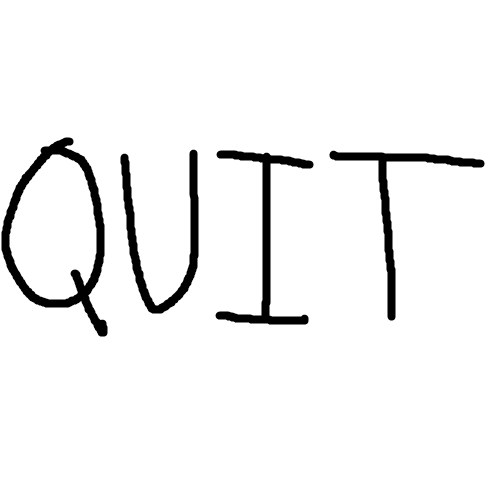
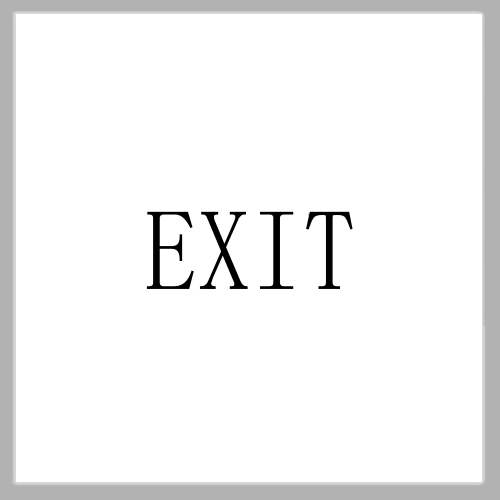
update states
Updated Menu, Loading and EndGame states so that they have the appropriate buttons and textures.

Changed region(s): [[0.0, 0.0, 1.0, 1.0], [0.24, 0.3, 0.72, 0.66]]

diff --git a/Client/src/States/Loadscreen.cpp b/Client/src/States/Loadscreen.cpp
@@ -7,14 +7,20 @@ Loadscreen::Loadscreen(Aen::Window& window)
 
 Loadscreen::~Loadscreen()
 {
+	Aen::EntityHandler::RemoveEntity(*m_loading);
 }
 
 void Loadscreen::Update(const float& deltaTime)
 {
-	if (Aen::Input::KeyDown(Aen::Key::ENTER))
+	m_loading->GetComponent<Aen::UIComponent>().Update(m_Window);
+
+	if (Aen::Input::KeyDown(Aen::Key::LMOUSE) && m_loading[0].GetComponent<Aen::UIComponent>().getBool())
 	{
 		State::SetState(States::Gameplay);
 	}
+
+	if (Aen::Input::KeyDown(Aen::Key::ESCAPE))
+		m_Window.Exit();
 
 	//cout << "Loadstate\n";
 }
@@ -23,12 +29,32 @@ void Loadscreen::Initialize()
 {
 	cout << "Loadstate\n";
 	m_Window.SetWindowSize(static_cast<UINT>(GetSystemMetrics(SM_CXSCREEN) * 0.4f), static_cast<UINT>(GetSystemMetrics(SM_CYSCREEN) * 0.4f));
-	/*Aen::WindowDesc wDesc;
+	Aen::WindowDesc wDesc;
 	wDesc.width = GetSystemMetrics(SM_CXSCREEN) + 4u;
 	wDesc.height = GetSystemMetrics(SM_CYSCREEN) + 4u;
 	wDesc.EXStyle = AEN_WS_EX_APPWINDOW;
 	wDesc.style = AEN_WS_POPUPWINDOW | AEN_WS_VISIBLE;
-	m_Window.LoadSettings(wDesc);*/
+	m_Window.LoadSettings(wDesc);
+
+	// ----------------------------- UI -------------------------------- //
+	// keyboard
+	m_loading = &Aen::EntityHandler::CreateEntity();
+	m_loading->AddComponent<Aen::UIComponent>();
+	m_loading->GetComponent<Aen::UIComponent>().AddButton(L"../Resource/KeyboardLayout.png", 0);
+	m_loading->GetComponent<Aen::UIComponent>().SetButtonPos(975.f, 520.f, 0);
+	m_loading->GetComponent<Aen::UIComponent>().SetButtonSize(1900.f, 1000.f, 0);
+	m_loading->GetComponent<Aen::UIComponent>().SaveButtonData();
+
+	// continue
+	m_loading->GetComponent<Aen::UIComponent>().AddButton(L"../Resource/Continue.png", 1);
+	m_loading->GetComponent<Aen::UIComponent>().SetButtonPos(950.f, 950.f, 1);
+	m_loading->GetComponent<Aen::UIComponent>().SetButtonSize(300.f, 150.f, 1);
+	m_loading->GetComponent<Aen::UIComponent>().SaveButtonData();
+
+	//Text
+	m_loading->GetComponent<Aen::UIComponent>().AddText();
+	m_loading->GetComponent<Aen::UIComponent>().SetTextPos(-100.f, -100.f);
+	m_loading->GetComponent<Aen::UIComponent>().SetTextSize(300.f, 300);
 
 	if (!State::GetLoaded())
 		State::SetLoad(true);

diff --git a/Client/src/States/GameEnd.cpp b/Client/src/States/GameEnd.cpp
@@ -16,10 +16,9 @@ void GameEnd::Update(const float& deltaTime)
 		State::SetState(States::Main_Menu);
 	}
 
-	/*if (m_toggleFullScreen)
-		Aen::Input::SetMousePos((Aen::Vec2i)Aen::Vec2f(GetSystemMetrics(SM_CXSCREEN) * 0.5f, GetSystemMetrics(SM_CYSCREEN) * 0.5f));
-	else
-		Aen::Input::SetMousePos(m_Window.GetWindowPos() + (Aen::Vec2i)((Aen::Vec2f)m_Window.GetSize() * 0.5f));*/
+	if (Aen::Input::KeyDown(Aen::Key::ESCAPE))
+		m_Window.Exit();
+
 
 	if (Aen::Input::KeyDown(Aen::Key::F1)) {
 		m_toggleFullScreen = !m_toggleFullScreen;
@@ -49,16 +48,23 @@ void GameEnd::Initialize()
 	m_UI->AddComponent<Aen::UIComponent>();
 	m_UI->GetComponent<Aen::UIComponent>().AddButton(L"../Resource/Menu.png", 0);
 	m_UI->GetComponent<Aen::UIComponent>().SetButtonPos(950.f, 800.f, 0);
-	m_UI->GetComponent<Aen::UIComponent>().SetButtonSize(300.f, 300.f, 0);
+	m_UI->GetComponent<Aen::UIComponent>().SetButtonSize(300.f, 200.f, 0);
 	m_UI->GetComponent<Aen::UIComponent>().SaveButtonData();
 
 	//Text
 	m_UI->GetComponent<Aen::UIComponent>().AddText();
 	m_UI->GetComponent<Aen::UIComponent>().SetTextPos(950.f, 200.f);
-	m_UI->GetComponent<Aen::UIComponent>().SetTextSize(300.f, 300);
+	m_UI->GetComponent<Aen::UIComponent>().SetTextSize(300.f, 300.f);
 
 
 	m_Window.SetWindowSize(static_cast<UINT>(GetSystemMetrics(SM_CXSCREEN) * 0.4f), static_cast<UINT>(GetSystemMetrics(SM_CYSCREEN) * 0.4f));
+	Aen::WindowDesc wDesc;
+	wDesc.width = GetSystemMetrics(SM_CXSCREEN) + 4u;
+	wDesc.height = GetSystemMetrics(SM_CYSCREEN) + 4u;
+	wDesc.EXStyle = AEN_WS_EX_APPWINDOW;
+	wDesc.style = AEN_WS_POPUPWINDOW | AEN_WS_VISIBLE;
+	m_Window.LoadSettings(wDesc);
+
 	cout << "Game End\n";
 	cout << "Press Enter to return to Main Menu\n";
 

diff --git a/Client/src/States/Menu.cpp b/Client/src/States/Menu.cpp
@@ -15,10 +15,11 @@ void MainMenu::Update(const float& deltaTime)
 {
 	testUI->GetComponent<Aen::UIComponent>().Update(m_Window);
 
-	if (Aen::Input::KeyDown(Aen::Key::LMOUSE) && testUI->GetComponent<Aen::UIComponent>().getBool())
-	{
+	if (Aen::Input::KeyDown(Aen::Key::LMOUSE) && testUI[0].GetComponent<Aen::UIComponent>().getBool())
 		State::SetState(States::Loadscreen);
-	}
+
+	if (Aen::Input::KeyDown(Aen::Key::ESCAPE))
+		m_Window.Exit();
 }
 
 void MainMenu::Initialize()
@@ -37,11 +38,17 @@ void MainMenu::Initialize()
 	// ----------------------------- UI -------------------------------- //
 	testUI = &Aen::EntityHandler::CreateEntity();
 	testUI->AddComponent<Aen::UIComponent>();
-	testUI->GetComponent<Aen::UIComponent>().AddButton(L"../Resource/Play.png", 0);
-	testUI->GetComponent<Aen::UIComponent>().SetButtonPos(500.f, 500.f, 0);
-	testUI->GetComponent<Aen::UIComponent>().SetButtonSize(300.f, 300.f, 0);
+	testUI->GetComponent<Aen::UIComponent>().AddButton(L"../Resource/PathToTheTower.png", 0);
+	testUI->GetComponent<Aen::UIComponent>().SetButtonPos(965.f, 520.f, 0);
+	testUI->GetComponent<Aen::UIComponent>().SetButtonSize(1700.f, 900.f, 0);
 	testUI->GetComponent<Aen::UIComponent>().SaveButtonData();
 
+	testUI->GetComponent<Aen::UIComponent>().AddButton(L"../Resource/Play.png", 1);
+	testUI->GetComponent<Aen::UIComponent>().SetButtonPos(950.f, 950, 1);
+	testUI->GetComponent<Aen::UIComponent>().SetButtonSize(300.f, 200.f, 1);
+	testUI->GetComponent<Aen::UIComponent>().SaveButtonData();
+
+	
 	//Text
 	testUI->GetComponent<Aen::UIComponent>().AddText();
 	testUI->GetComponent<Aen::UIComponent>().SetTextPos(-100.f,-100.f);

diff --git a/Client/src/States/Gameplay.cpp b/Client/src/States/Gameplay.cpp
@@ -91,6 +91,12 @@ void Gameplay::Initialize()
 	// --------------------------- Setup Window --------------------------------- //
 
 	m_Window.SetWindowSize(static_cast<UINT>(GetSystemMetrics(SM_CXSCREEN) * 0.4f), static_cast<UINT>(GetSystemMetrics(SM_CYSCREEN) * 0.4f));
+	Aen::WindowDesc wDesc;
+	wDesc.width = GetSystemMetrics(SM_CXSCREEN) + 4u;
+	wDesc.height = GetSystemMetrics(SM_CYSCREEN) + 4u;
+	wDesc.EXStyle = AEN_WS_EX_APPWINDOW;
+	wDesc.style = AEN_WS_POPUPWINDOW | AEN_WS_VISIBLE;
+	m_Window.LoadSettings(wDesc);
 
 	Aen::Input::ToggleRawMouse(true);
 	Aen::Input::SetMouseVisible(false);

diff --git a/Client/src/States/Loadscreen.h b/Client/src/States/Loadscreen.h
@@ -5,6 +5,7 @@ class Loadscreen : public State
 {
 private:
 	bool m_toggleFullScreen;
+	Aen::Entity* m_loading;
 public:
 	Loadscreen(Aen::Window& window);
 	~Loadscreen()override;
